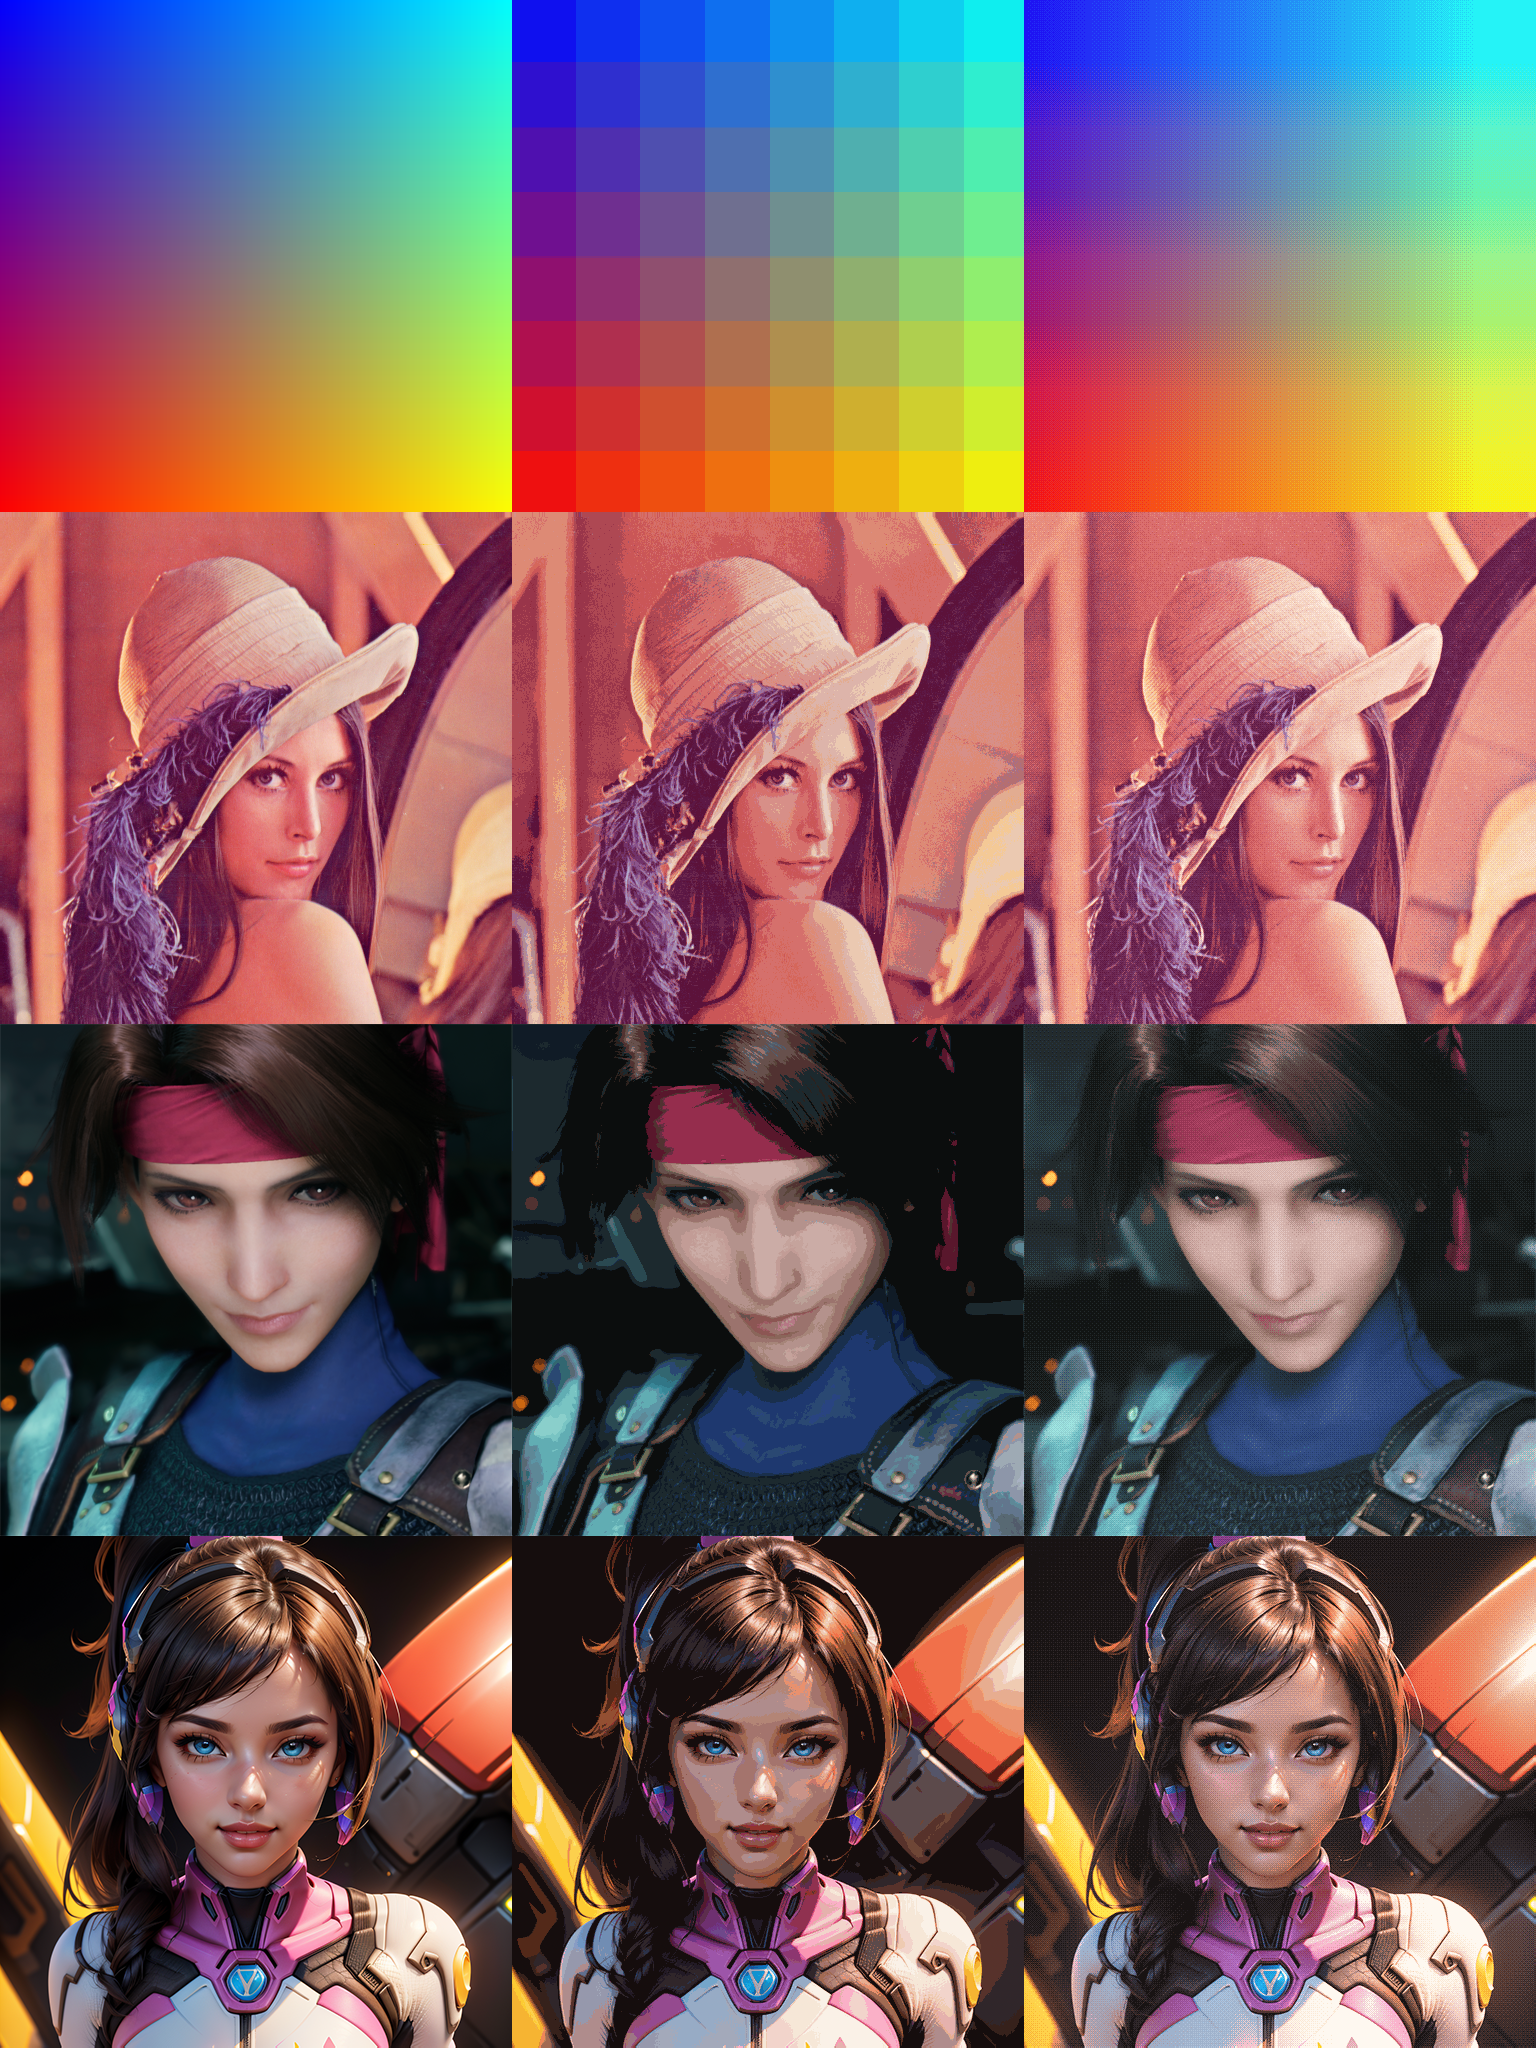
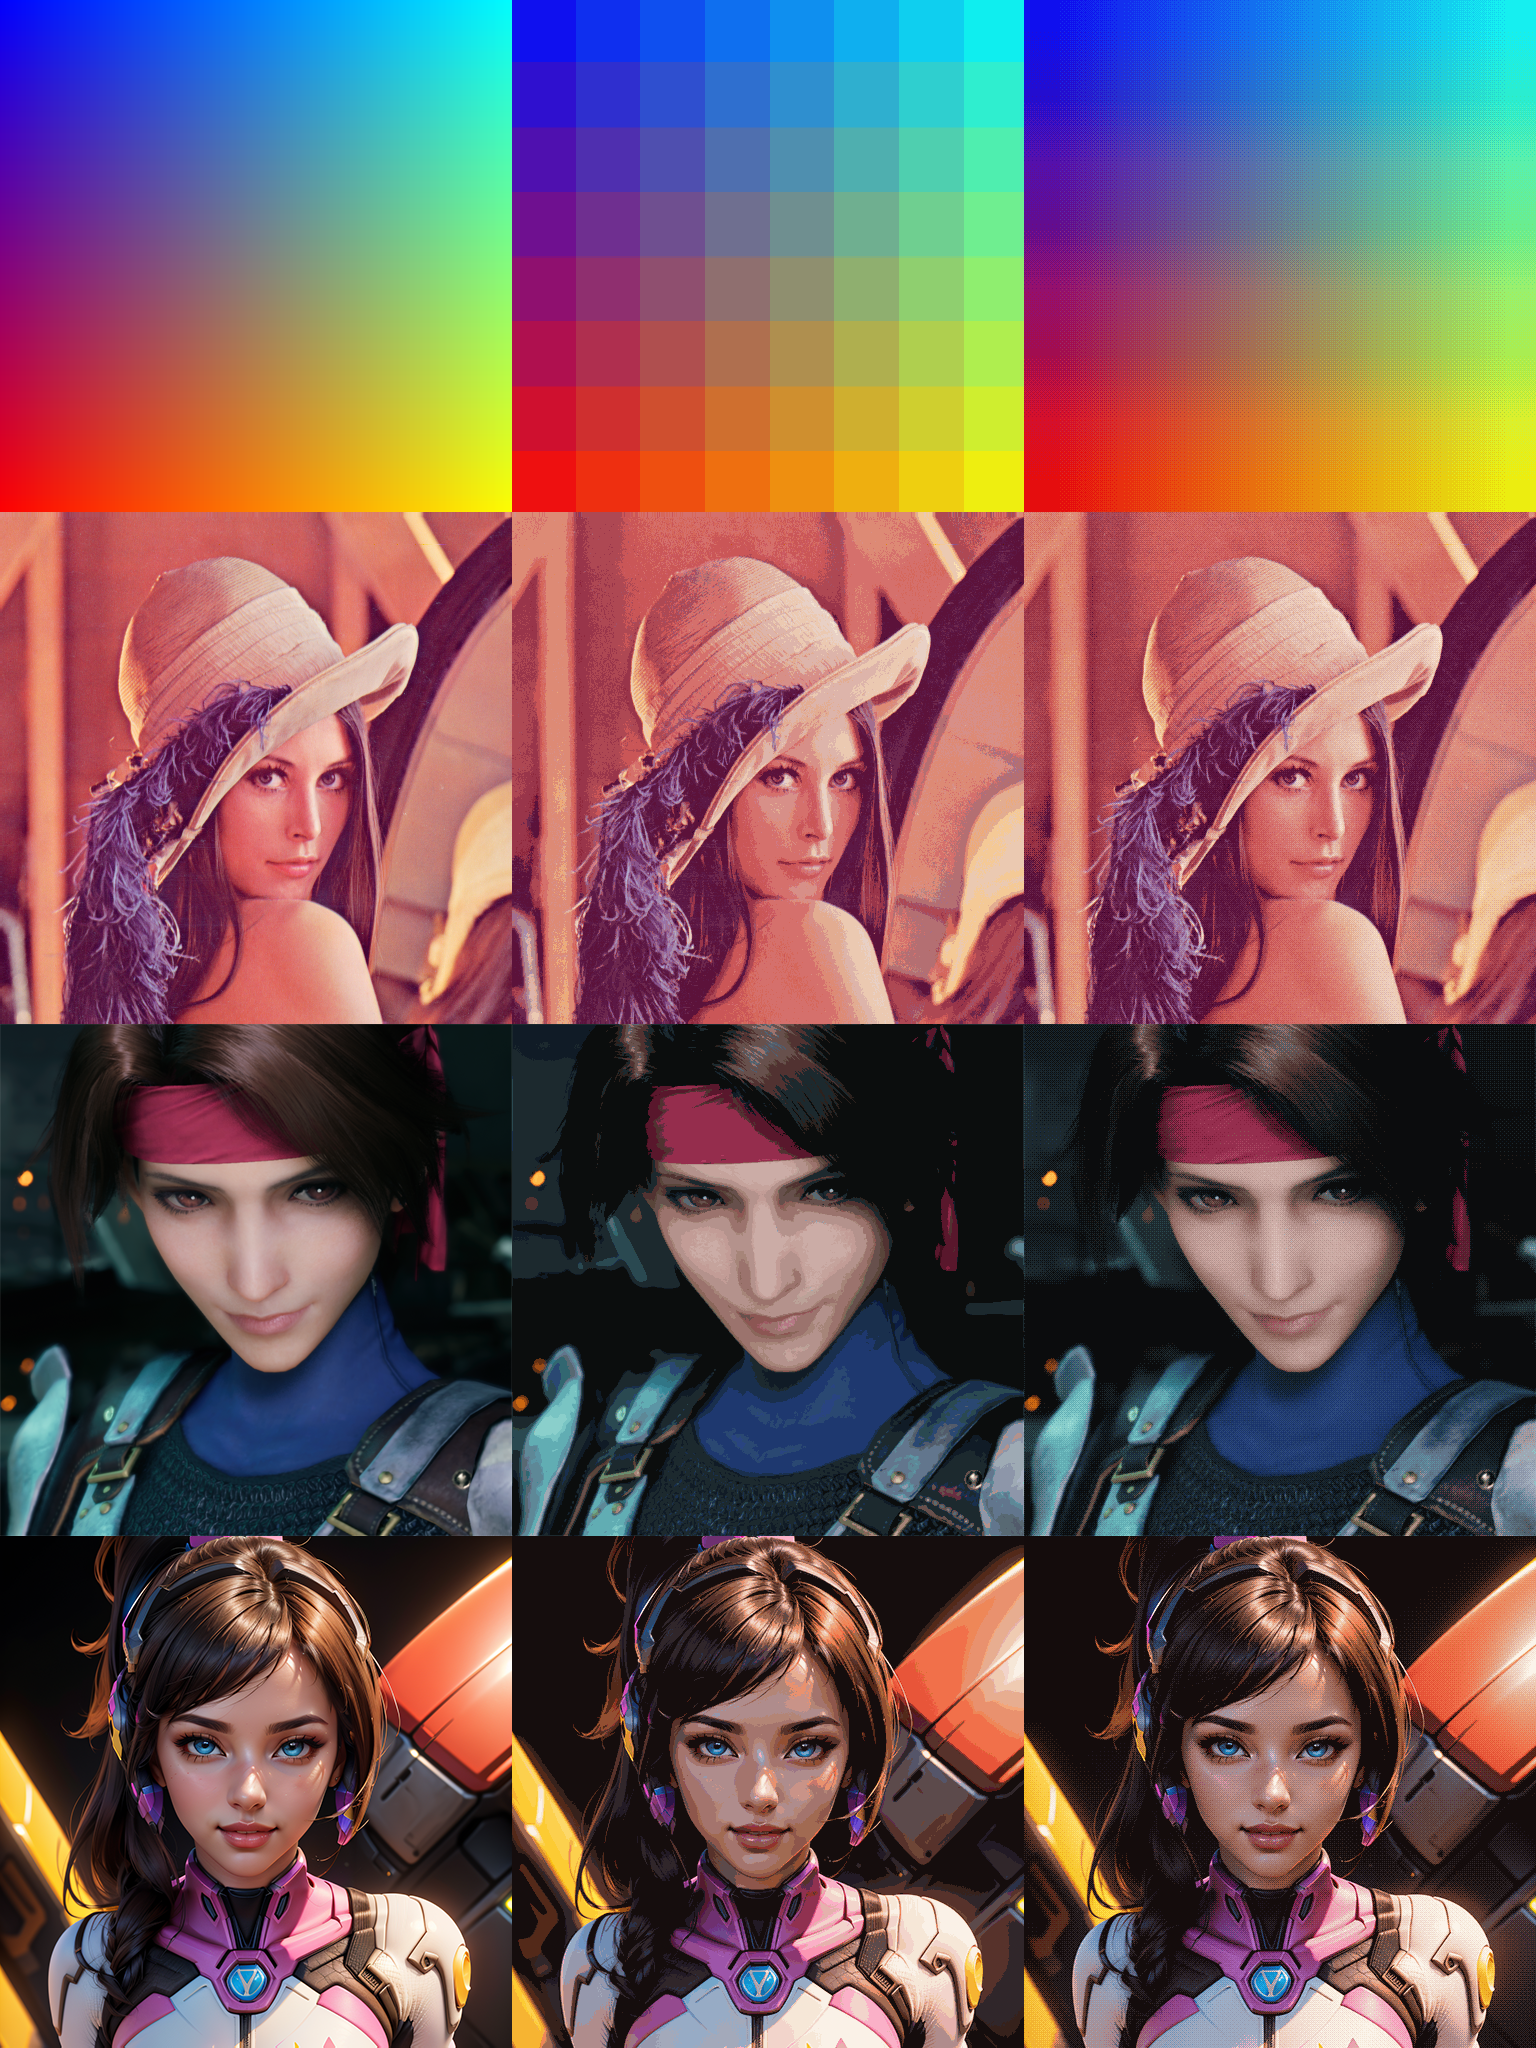
Gamma correction added. Fix overbrightness when dithering.

Changed region(s): [[0.3438, 0.0, 1.0, 1.0], [0.625, 0.75, 0.6562, 0.7812]]

diff --git a/unipal.c b/unipal.c
@@ -1,8 +1,13 @@
 /* UNIPAL.C: reduce an RGB 24-bit image to 8-bit using uniform palette */
 /* Coded by Trinh D.D. Nguyen, Dec 2024 */
 
+// #define USE_GAMMA_CORRECTION
+
 #include <stdio.h>
 #include <string.h>
+#ifdef USE_GAMMA_CORRECTION
+    #include <math.h>
+#endif
 #include "image.h"
 #include "bitmap.h"
 
@@ -23,6 +28,27 @@ inline uint8 clamp(int n) {
     return n | ((255 - n) >> 31);
 }
 
+#ifdef USE_GAMMA_CORRECTION
+
+float   gamma_value = 2.2;
+
+/* gamma correction for an RGB triplet */
+void gamma_correction(int *r, int *g, int *b, float gamma) { 
+    float rNorm = *r / 255.0; 
+    float gNorm = *g / 255.0; 
+    float bNorm = *b / 255.0; 
+    
+    // perform corrections
+    rNorm = pow(rNorm, gamma); 
+    gNorm = pow(gNorm, gamma); 
+    bNorm = pow(bNorm, gamma); 
+    
+    *r = (int)(rNorm * 255.0); 
+    *g = (int)(gNorm * 255.0); 
+    *b = (int)(bNorm * 255.0); 
+}
+#endif
+
 /* fast RGB quantization */
 bitmap quantize_uniform(const bitmap bmp, bool dither) {
     if (!bmp) return NULL;
@@ -39,11 +65,13 @@ bitmap quantize_uniform(const bitmap bmp, bool dither) {
     for (int y = 0; y < bmp->height; y++) {
         for (int x = 0; x < bmp->width; x++) {
             /* dithering if needed */
-            int t = dither ? bayerMatrix[((y & 3) << 2) + (x & 3)] : 0;
+            int t = dither ? (bayerMatrix[((y & 3) << 2) + (x & 3)] - 8) : 0;
             int b = clamp((*src++) + (t << 1));
             int g = clamp((*src++) + (t << 1));
             int r = clamp((*src++) + (t << 1));
-
+#ifdef USE_GAMMA_CORRECTION
+            gamma_correction(&r, &g, &b, gamma_value);
+#endif
             /* quantize */
             uint8 k = ((r >> 5) << 5) + ((g >> 5) << 2) + (b >> 6);
 		    (*dst++) = k;
